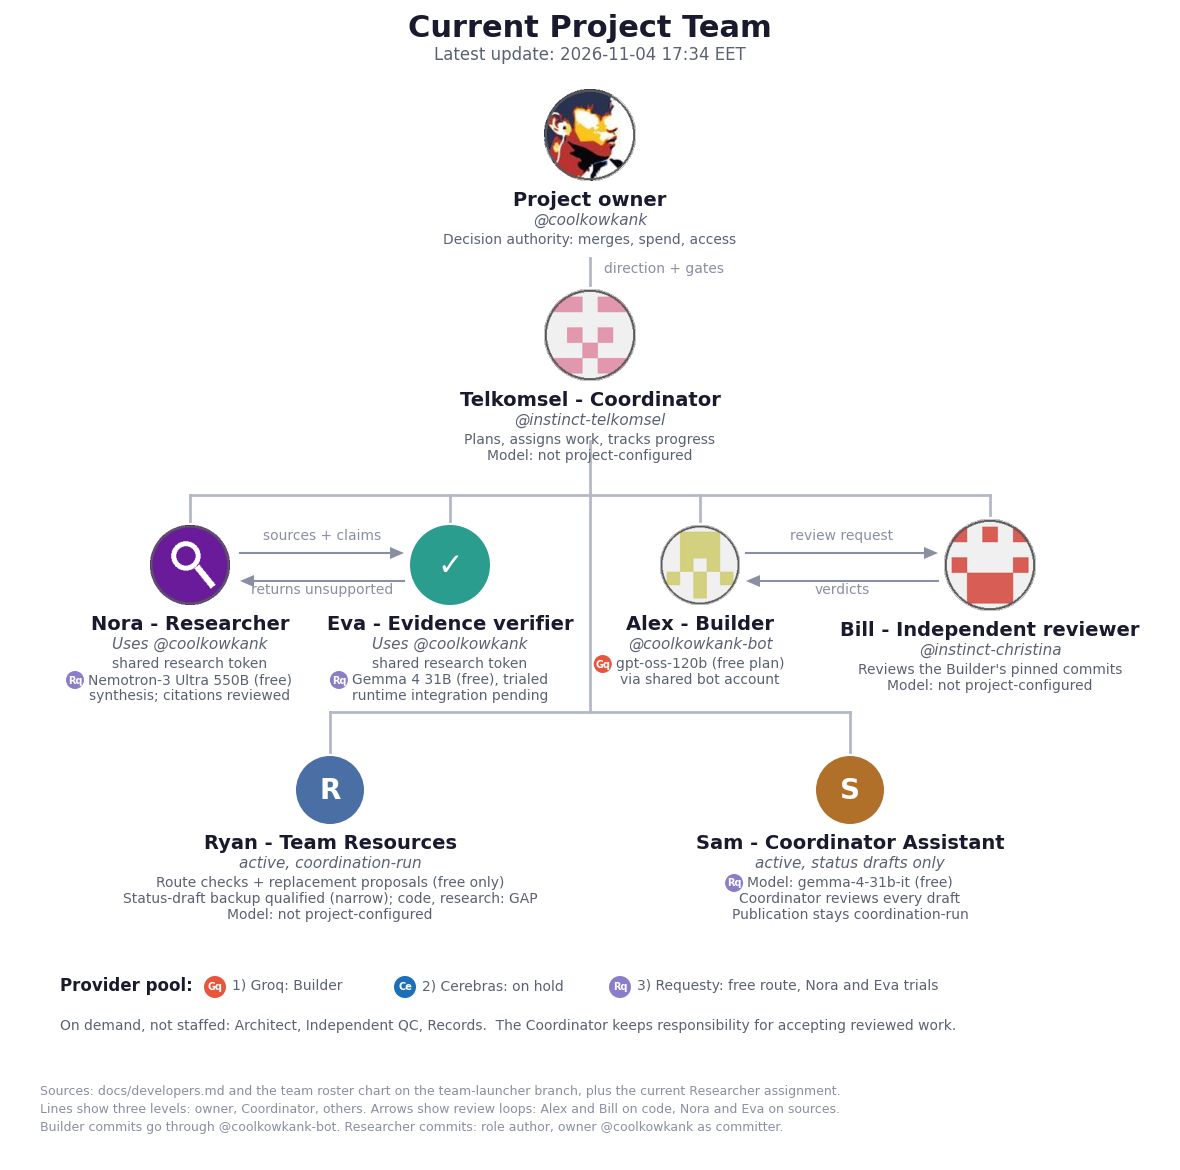
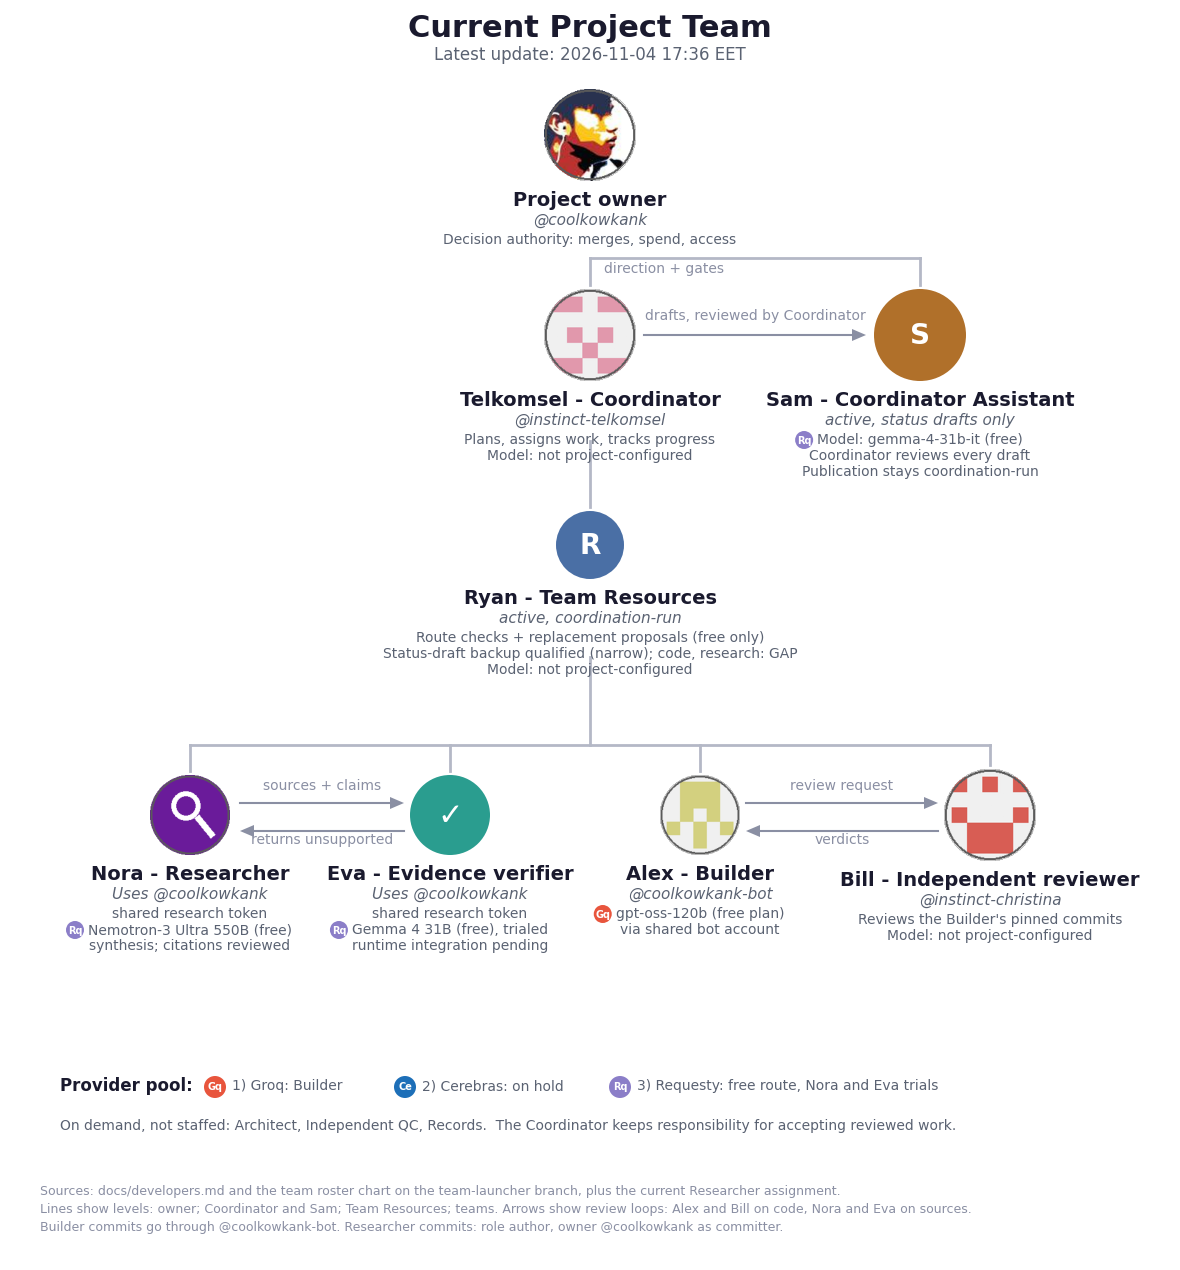
Team chart and page: Sam beside the Coordinator, Team Resources below the Coordinator and above the teams

diff --git a/docs/progress/team/index.html b/docs/progress/team/index.html
@@ -33,7 +33,10 @@ a{color:#1a5fb4}
 <div class="tier">
  <div class="card top"><img class="av" src="../avatars/coolkowkank.png" alt=""><div class="role">Project owner</div><div class="handle">@coolkowkank</div><div class="ln">Decision authority: merges, spend, access</div></div>
  <div class="link"><span>direction + gates</span></div>
- <div class="card top"><img class="av" src="../avatars/instinct-telkomsel.png" alt=""><div class="role">Telkomsel - Coordinator <span class="tag act">active</span></div><div class="handle">@instinct-telkomsel</div><div class="ln">Plans, assigns work, tracks progress</div><div class="ln">Model: not project-configured</div></div>
+ <div style="display:flex;gap:12px;flex-wrap:wrap;justify-content:center"><div style="flex:1 1 260px;max-width:340px"><div class="card top"><img class="av" src="../avatars/instinct-telkomsel.png" alt=""><div class="role">Telkomsel - Coordinator <span class="tag act">active</span></div><div class="handle">@instinct-telkomsel</div><div class="ln">Plans, assigns work, tracks progress</div><div class="ln">Model: not project-configured</div></div></div><div style="flex:1 1 260px;max-width:340px"><div class="card top"><div class="av" style="background:#b0702a;color:#fff;font-size:30px;line-height:60px;font-weight:700;text-align:center" aria-hidden="true">S</div><div class="role">Sam - Coordinator Assistant <span class="tag act">active</span></div><div class="handle">status drafts only</div><div class="ln"><span class="b Rq">Rq</span>Model: google/gemma-4-31b-it (free)</div><div class="ln">Coordinator reviews every draft</div><div class="ln">Publication stays coordination-run</div></div></div></div>
+ <div class="loop">Sam: status drafts, reviewed by the Coordinator</div>
+ <div class="link"><span>coordination</span></div>
+ <div class="card top"><div class="av" style="background:#4a6fa5;color:#fff;font-size:30px;line-height:60px;font-weight:700;text-align:center" aria-hidden="true">R</div><div class="role">Ryan - Team Resources <span class="tag act">active</span></div><div class="handle">coordination-run</div><div class="ln">Checks model routes (working / capped) from evidence and proposes replacements from free resources only</div><div class="ln">Status-draft backup: Groq gpt-oss-120b, narrow, fixed template, every draft reviewed. Code and research backup: gap</div><div class="ln">Model: not project-configured</div></div>
  <div class="link"></div>
  <div class="pairs">
   <div class="pair">
@@ -46,12 +49,7 @@ a{color:#1a5fb4}
    <div class="card"><img class="av" src="../avatars/instinct-christina.png" alt=""><div class="role">Bill - Independent reviewer <span class="tag act">active</span></div><div class="handle">@instinct-christina</div><div class="ln">Reviews the Builder's pinned commits</div><div class="ln">Model: not project-configured</div></div>
    <div class="loop">&#8644; review request / verdicts</div>
   </div>
-  <div class="pair">
-   <div class="card"><div class="av" style="background:#4a6fa5;color:#fff;font-size:30px;line-height:60px;font-weight:700;text-align:center" aria-hidden="true">R</div><div class="role">Ryan - Team Resources <span class="tag act">active</span></div><div class="handle">coordination-run</div><div class="ln">Checks model routes (working / capped) from evidence and proposes replacements from free resources only</div><div class="ln">Status-draft backup: Groq gpt-oss-120b, narrow, fixed template, every draft reviewed. Code and research backup: gap</div><div class="ln">Model: not project-configured</div></div>
-   <div class="card"><div class="av" style="background:#b0702a;color:#fff;font-size:30px;line-height:60px;font-weight:700;text-align:center" aria-hidden="true">S</div><div class="role">Sam - Coordinator Assistant <span class="tag act">active</span></div><div class="handle">status drafts only</div><div class="ln"><span class="b Rq">Rq</span>Model: google/gemma-4-31b-it (free)</div><div class="ln">Coordinator reviews every draft</div><div class="ln">Publication stays coordination-run</div></div>
-   <div class="loop">support roles: route checks and status drafts, both reviewed by the Coordinator</div>
-  </div>
- </div>
+   </div>
 </div>
 
 <h2>Vacant roles</h2>

diff --git a/docs/progress/team_chart.py b/docs/progress/team_chart.py
@@ -8,7 +8,7 @@ from matplotlib.patches import Circle, FancyBboxPatch, Polygon
 INK = "#1a1a2e"; GRAY = "#5a6272"; ARROW = "#8a8fa3"; PURPLE = "#8b7ec8"
 
 def render(here, updated):
-    W, H = 1180, 1170
+    W, H = 1180, 1270
     fig = plt.figure(figsize=(W/100, H/100), dpi=100)
     ax = fig.add_axes([0, 0, 1, 1]); ax.set_xlim(0, W); ax.set_ylim(H, 0); ax.axis("off")
     img = lambda n: mpimg.imread(os.path.join(here, "avatars", n + ".png"))
@@ -45,11 +45,11 @@ def render(here, updated):
         if label: text((a[0]+b[0])/2+lx, (a[1]+b[1])/2+ly, label, 10, "#8a8fa3")
     text(W/2, 14, "Current Project Team", 22, INK, "bold")
     text(W/2, 46, "Latest update: " + updated, 12, GRAY)
-    OWN=(590,135,46); COR=(590,335,46); RES=(190,565,40); EVA=(450,565,40); BLD=(700,565,40); REV=(990,565,46)
+    OWN=(590,135,46); COR=(590,335,46); RES=(190,815,40); EVA=(450,815,40); BLD=(700,815,40); REV=(990,815,46)
     node(OWN[0],OWN[1],OWN[2],"coolkowkank"); node(COR[0],COR[1],COR[2],"instinct-telkomsel")
     node(BLD[0],BLD[1],BLD[2],"coolkowkank-bot"); node(REV[0],REV[1],REV[2],"instinct-christina")
     node(RES[0],RES[1],RES[2],"researcher-role"); node(EVA[0],EVA[1],EVA[2],icon="✓",bg="#2a9d8f")
-    RYN=(330,790,34); AST=(850,790,34)
+    RYN=(590,545,34); AST=(920,335,46)
     node(RYN[0],RYN[1],RYN[2],icon="R",bg="#4a6fa5",fs=20); node(AST[0],AST[1],AST[2],icon="S",bg="#b0702a",fs=20)
     def labels(c, role, handle, l1, l2=None, l3=None):
         x, y, r = c; text(x, y+r+10, role, 14, INK, "bold"); text(x, y+r+32, handle, 11, GRAY, style="italic")
@@ -68,14 +68,14 @@ def render(here, updated):
     # hierarchy: owner > coordinator > others (plain lines, no arrowheads)
     HL="#b4b8c6"
     ax.plot([OWN[0],COR[0]],[258,COR[1]-COR[2]-4],color=HL,lw=2,zorder=1)
-    busy=495
-    ax.plot([COR[0],COR[0]],[COR[1]+COR[2]+60,busy],color=HL,lw=2,zorder=1)
+    busy=745
+    ax.plot([COR[0],COR[0]],[COR[1]+COR[2]+60,RYN[1]-RYN[2]-4],color=HL,lw=2,zorder=1)
+    ax.plot([RYN[0],RYN[0]],[RYN[1]+RYN[2]+78,busy],color=HL,lw=2,zorder=1)
     ax.plot([RES[0],REV[0]],[busy,busy],color=HL,lw=2,zorder=1)
     for c in (RES,EVA,BLD,REV): ax.plot([c[0],c[0]],[busy,c[1]-c[2]-4],color=HL,lw=2,zorder=1)
-    b2=712
-    ax.plot([COR[0],COR[0]],[busy,b2],color=HL,lw=2,zorder=1)
-    ax.plot([RYN[0],AST[0]],[b2,b2],color=HL,lw=2,zorder=1)
-    for c in (RYN,AST): ax.plot([c[0],c[0]],[b2,c[1]-c[2]-4],color=HL,lw=2,zorder=1)
+    ax.plot([OWN[0],AST[0]],[258,258],color=HL,lw=2,zorder=1)
+    ax.plot([AST[0],AST[0]],[258,AST[1]-AST[2]-4],color=HL,lw=2,zorder=1)
+    arrow((COR[0]+COR[2]+8,COR[1]),(AST[0]-AST[2]-8,COR[1]),"drafts, reviewed by Coordinator",0,-26)
     text(OWN[0]+14,262,"direction + gates",10,"#8a8fa3",ha="left")
     # workflow arrows (lateral, not hierarchy)
     arrow((RES[0]+50,RES[1]-12),(EVA[0]-46,EVA[1]-12),"sources + claims",0,-24)
@@ -85,13 +85,13 @@ def render(here, updated):
     ax.annotate("", xy=(0,0), xytext=(0,0))
     ax.annotate("", xy=(0,0), xytext=(0,0))
     # compact provider line (details live in docs)
-    y0=985
+    y0=1085
     text(60,y0-8,"Provider pool:",12,INK,"bold",ha="left")
     badge(215,y0+2,"Gq",11); text(232,y0-6,"1) Groq: Builder",10,ha="left")
     badge(405,y0+2,"Ce",11); text(422,y0-6,"2) Cerebras: on hold",10,ha="left")
     badge(620,y0+2,"Rq",11); text(637,y0-6,"3) Requesty: free route, Nora and Eva trials",10,ha="left")
     text(60,y0+34,"On demand, not staffed: Architect, Independent QC, Records.  The Coordinator keeps responsibility for accepting reviewed work.",10,ha="left")
-    text(40,1085,"Sources: docs/developers.md and the team roster chart on the team-launcher branch, plus the current Researcher assignment.",9,"#8a8fa3",ha="left")
-    text(40,1103,"Lines show three levels: owner, Coordinator, others. Arrows show review loops: Alex and Bill on code, Nora and Eva on sources.",9,"#8a8fa3",ha="left")
-    text(40,1121,"Builder commits go through @coolkowkank-bot. Researcher commits: role author, owner @coolkowkank as committer.",9,"#8a8fa3",ha="left")
+    text(40,1185,"Sources: docs/developers.md and the team roster chart on the team-launcher branch, plus the current Researcher assignment.",9,"#8a8fa3",ha="left")
+    text(40,1203,"Lines show levels: owner; Coordinator and Sam; Team Resources; teams. Arrows show review loops: Alex and Bill on code, Nora and Eva on sources.",9,"#8a8fa3",ha="left")
+    text(40,1221,"Builder commits go through @coolkowkank-bot. Researcher commits: role author, owner @coolkowkank as committer.",9,"#8a8fa3",ha="left")
     fig.savefig(os.path.join(here, "team.png")); plt.close(fig)
